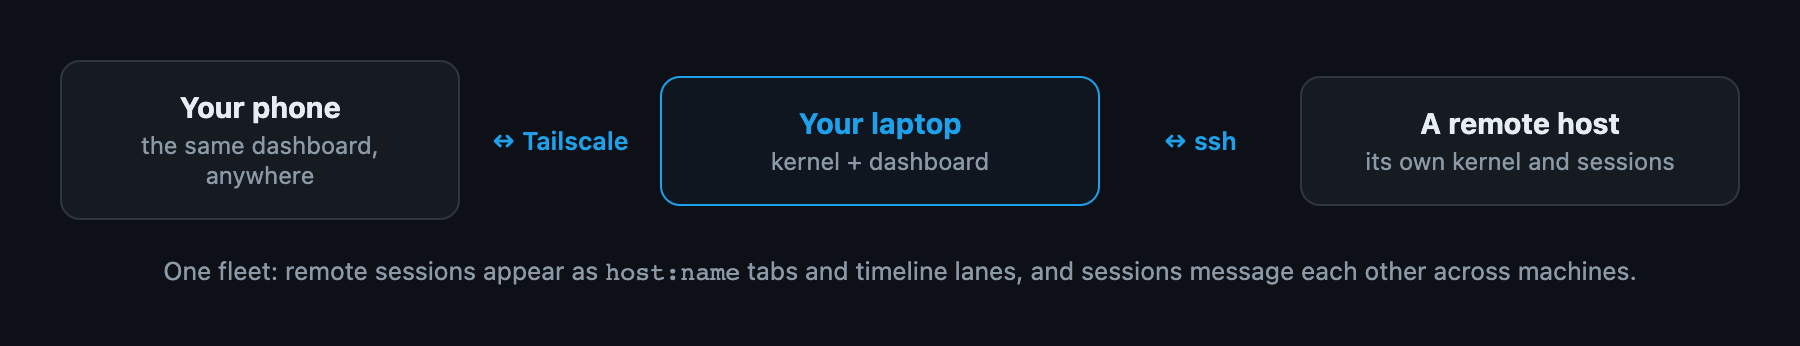
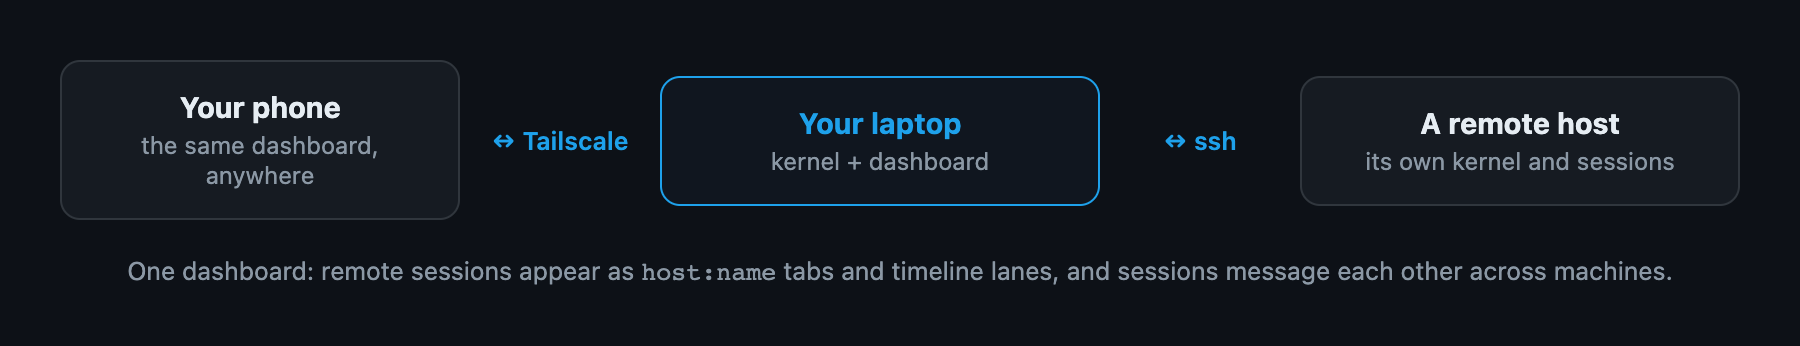
Docs: drop "fleet" throughout; frame cross-machine as one control point
Replace every use of "fleet" in the docs, README, and site description with plain
language ("your sessions", "every session", "one place"). Rework the home-page and
federation lines so the point lands directly: agents on several machines message
each other across the boundary, and you steer them all from one place.

Regenerate the architecture and federation figures to match: the architecture
diagram now names the pane "Outline" (as the guide does) rather than "Fleet", and
the federation caption reads "One dashboard" instead of "One fleet".

Changed region(s): [[0.0622, 0.7514, 0.9333, 0.8382]]

diff --git a/docs/guide.md b/docs/guide.md
@@ -1,6 +1,6 @@
 # Guide
 
-Romp gathers a fleet of Claude Code sessions into a single dashboard you can
+Romp gathers all your Claude Code sessions into a single dashboard you can
 watch and steer. You see it through four views, each answering a different
 question:
 
@@ -10,13 +10,13 @@ question:
   transcript, breaks the work into tasks, and shows each task as a card. One
   session can produce several, and agents can hand tasks off to one another.
 - **The outline** lists every session with its tasks, for reviewing what a
-  session has done and searching across the whole fleet.
+  session has done and searching across all of them.
 - **The timeline** shows what each session has been doing over time and how they
   have been coordinating; click any part to jump to that moment in the chat.
 
 ## The views
 
-![The dashboard: chat, outline, and feed over one fleet](assets/guide/dashboard-annotated.png){ width="100%" }
+![The dashboard: chat, outline, and feed across every session](assets/guide/dashboard-annotated.png){ width="100%" }
 
 ### The chat
 
@@ -127,7 +127,7 @@ romp --mail inbox
 
 The full mail surface, shell and in-session, is in the
 [Reference](reference.md#mail-from-the-shell). Names resolve against the
-currently live fleet; sending to a dead session's name errors instead of
+currently live sessions; sending to a dead session's name errors instead of
 silently parking mail.
 
 ## Sessions, revival, and search
@@ -142,8 +142,8 @@ laptop, costs nothing.
 
 The picker matches against every session, live or closed. As sessions run, a
 lightweight index judge writes each one a headline and an abstract of what it
-did, so the search reaches inside a session's work, and a fleet of many
-sessions stays navigable months later.
+did, so the search reaches inside a session's work, and many sessions stay
+navigable months later.
 
 Which backend a session runs on (Agent SDK or tmux) is a per-session choice;
 [Session backends](reference.md#session-backends) covers the difference.
@@ -156,12 +156,13 @@ tab or the VS Code / Cursor extension. Everything Romp stores stays local; the
 only traffic that leaves your machine is `claude` itself, both the agents' own
 model calls and the LLM calls in Romp's judge pipeline.
 
-### More machines, one fleet
+### More machines, one place
 
 Federation connects more than one machine: each runs its own kernel, and an
-attached machine's sessions join yours as a single fleet.
+attached machine's sessions join yours in the same dashboard, so their agents
+message each other across the boundary and you steer them all from one place.
 
-![One fleet across a phone, a laptop, and a remote server](assets/guide/federation.png){ width="100%" }
+![Sessions from a phone, a laptop, and a remote server in one dashboard](assets/guide/federation.png){ width="100%" }
 
 Once a host is attached:
 

diff --git a/docs/reference.md b/docs/reference.md
@@ -10,7 +10,7 @@ that hosts the kernel.
 | `romp <name>` | Start or re-attach the terminal (tmux-backend) session `<name>` |
 | `romp -d` / `-f` / `-j` | Terminal views: dashboard, feed mirror, judge monitor |
 | `romp --on` / `--status` | Start the kernel manager / report its status |
-| `romp --refresh` | Restart the kernels (fleet-wide; running sessions reconnect) |
+| `romp --refresh` | Restart the kernels (every machine; running sessions reconnect) |
 | `romp --mail …` | The postal service from the shell (below) |
 | `romp update [host]` | Push this machine's committed romp to an attached remote kernel and restart it |
 | `romp --version` | Version report across the moving parts |
@@ -30,7 +30,7 @@ romp --mail working "<note>"      # publish what this session is working on
 |---|---|
 | `send_message(to, body, kind)` | Message a live session by name; `kind` declares delegate / coordinate / question |
 | `check_inbox()` | Read messages sent to you (also delivered at the end of each turn) |
-| `list_agents()` | The live fleet, each with its branch and working-note |
+| `list_agents()` | The live sessions, each with its branch and working-note |
 | `set_working(text)` | Publish what you hold so peers steer clear |
 | `check_sent()` | Whether your sent messages were read yet |
 | `recall_message(to, id?)` | Unsend a message the recipient hasn't read |
@@ -52,8 +52,8 @@ Sessions run on one of two backends, chosen per session:
 
 The tmux backend exists for when you want the session in an actual terminal:
 run `romp <name>` and that terminal session shows up on the dashboard like any
-other. The two interleave freely in one fleet, so a terminal session can sit
-alongside SDK sessions; it just won't be as smooth as they are.
+other. The two interleave freely, so a terminal session can sit alongside SDK
+sessions; it just won't be as smooth as they are.
 
 ## What the installer sets up
 

diff --git a/docs/judges.md b/docs/judges.md
@@ -22,7 +22,7 @@ corrupted fact.
 The thirteen judges run in two tiers. The index tier (cheap, fast models) writes
 text only and never touches goals. The triage tier (a stronger model) maintains the
 board. Both run continuously from the kernel producer and are event-gated,
-so an idle fleet costs file stats, not model calls.
+so idle sessions cost file stats, not model calls.
 
 ## The roster
 
@@ -246,7 +246,7 @@ event).
 | distiller, briefer | 3 tries, then a blank summary plus a card warn | on recovery, or a fresh completion/block |
 
 While the account usage window is exhausted, the rate gate skips every call
-fleet-wide and logs one `rate-limited` row per window; gate skips count
+across every session and logs one `rate-limited` row per window; gate skips count
 toward nothing.
 
 ## Not judges, but often confused with them

diff --git a/docs/index.md b/docs/index.md
@@ -19,10 +19,10 @@ its own.
 
 Romp is built on top of Claude Code: the agents it manages are ordinary
 Claude Code sessions, gathered into one live dashboard. Run it on your laptop,
-on a server, or across several machines that
-[link into one fleet](guide.md#more-machines-one-fleet). You open that dashboard
-the same way from anywhere: a browser, [your phone](guide.md#your-phone), or the
-VS Code / Cursor extension.
+on a server, or across [several machines at once](guide.md#more-machines-one-place):
+their agents message each other across the boundary, and you steer them all from
+one place. You open that dashboard the same way from anywhere: a browser,
+[your phone](guide.md#your-phone), or the VS Code / Cursor extension.
 
 Its key features:
 

diff --git a/README.md b/README.md
@@ -51,7 +51,7 @@ Romp works with Claude Code today. It adds all of this on top of the sessions yo
 You run Romp yourself, on your laptop or a server, with no hosted service in between.
 
 - **On your phone.** Reach the full dashboard over Tailscale.
-- **Across machines.** Connect several over SSH and they federate into one fleet whose agents message across the boundary.
+- **Across machines.** Connect several over SSH: their agents message each other across the boundary, and you steer them all from one place.
 - **In your editor or a browser.** Open it as a VS Code / Cursor extension or a plain browser tab.
 
 ## Quick start
